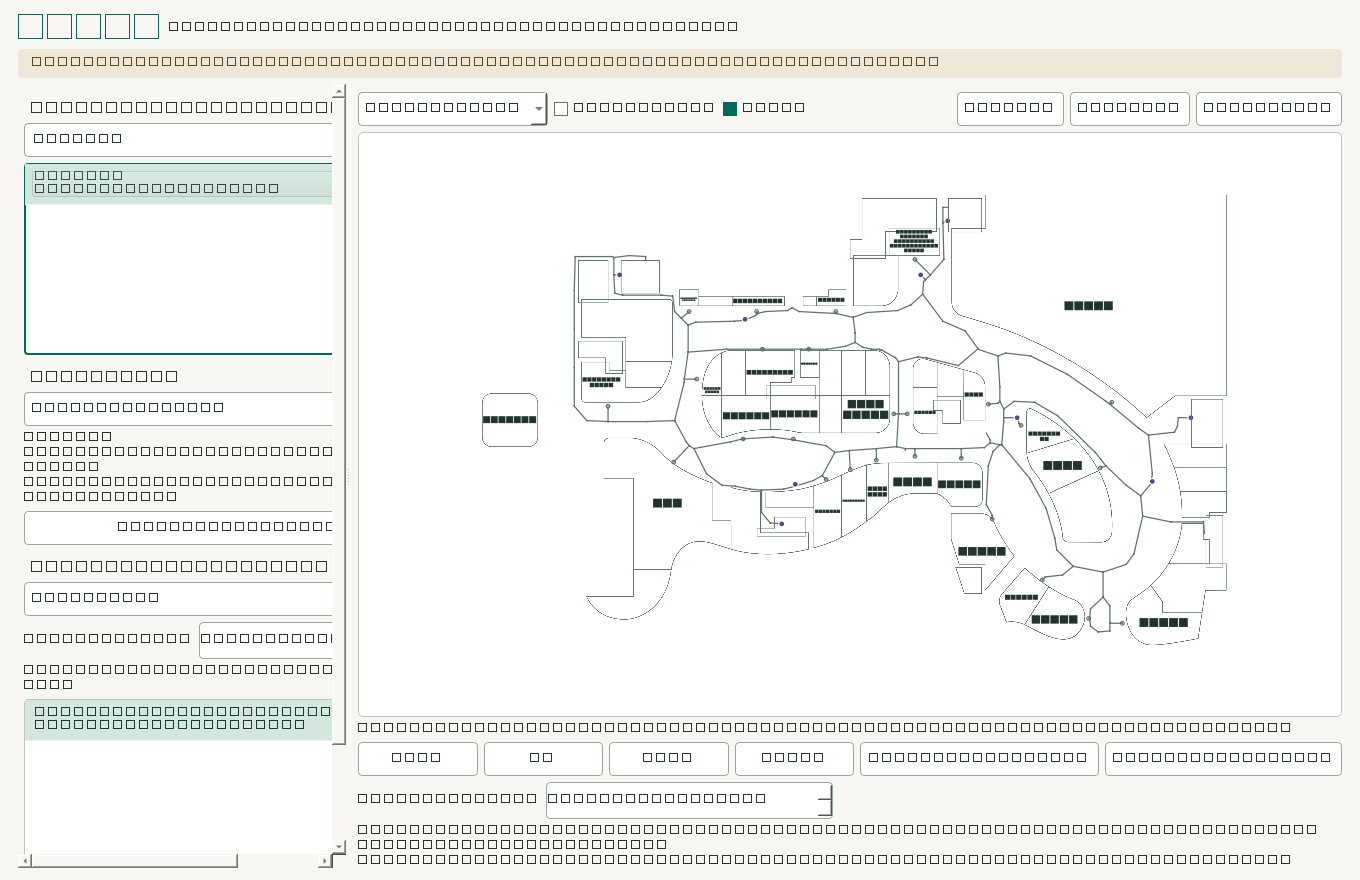
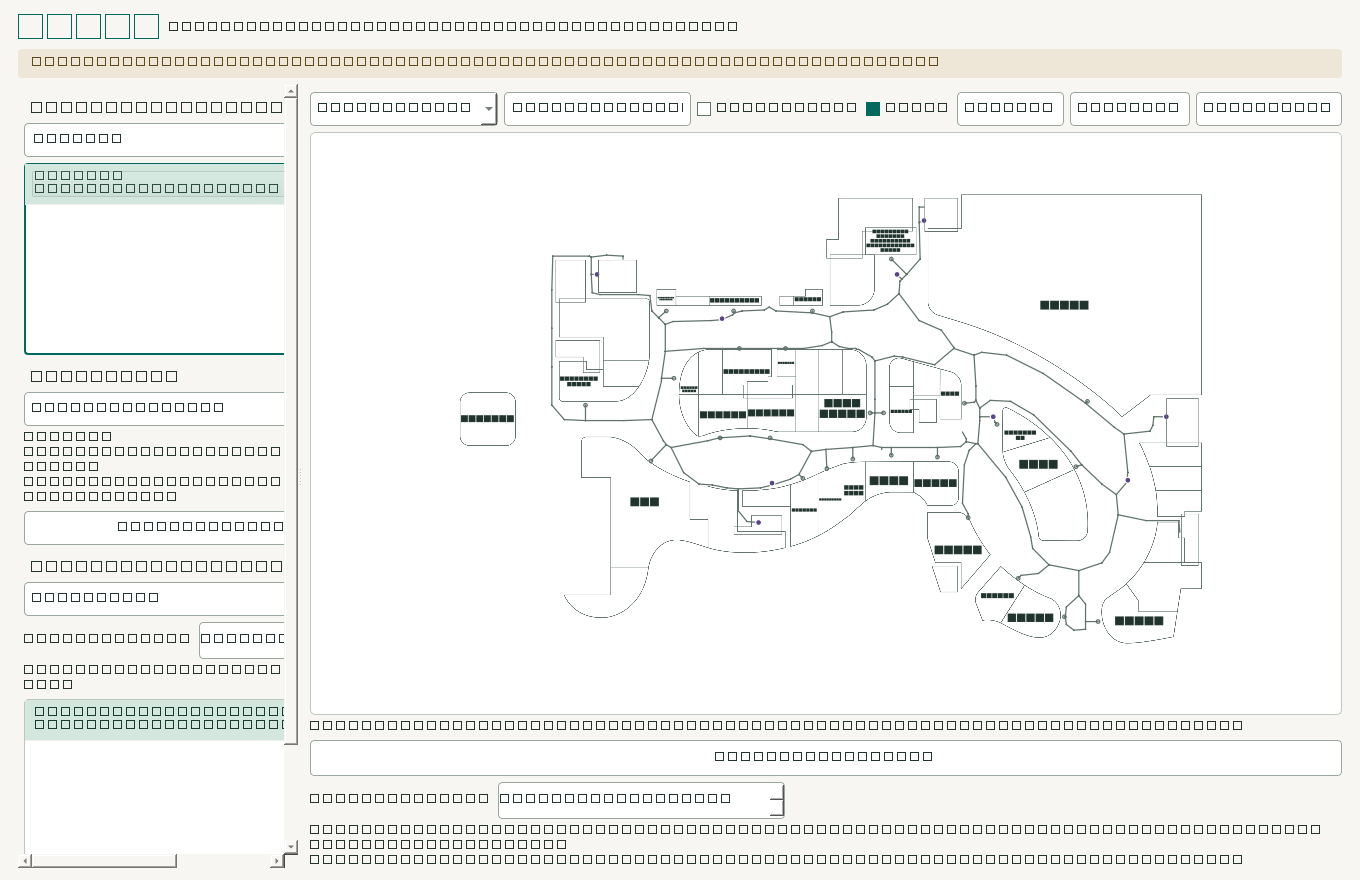
Rearranged the UI, default movement speed into 12

diff --git a/main.py b/main.py
@@ -282,7 +282,6 @@ class Window(QMainWindow):
         self.destination = None
         self.total_distance = None
         self.viewed_floor = 'ground'
-        self.held_direction = (0,0)
         self.last_time = time.monotonic()
         self.last_results = None
         self.last_detail_refresh = 0.0
@@ -364,6 +363,9 @@ class Window(QMainWindow):
         self.floor.addItems(list(FLOORS.values()))
         self.floor.setAccessibleName('Viewed floor; does not move the player')
         toolbar.addWidget(self.floor)
+        follow = QPushButton('Show player floor')
+        follow.clicked.connect(self.show_player)
+        toolbar.addWidget(follow)
         self.map_picture = QCheckBox('Map picture')
         self.map_picture.setChecked(True)
         toolbar.addWidget(self.map_picture)
@@ -381,27 +383,16 @@ class Window(QMainWindow):
         map_layout.addWidget(self.view, 1)
         self.position_label = self.label('')
         map_layout.addWidget(self.position_label)
-        movement = QHBoxLayout()
-        for title, direction in [('Left',(-1,0)),('Up',(0,-1)),('Down',(0,1)),('Right',(1,0))]:
-            button = QPushButton(title)
-            button.setAccessibleName('Move ' + title.lower() + ' along corridor')
-            button.pressed.connect(lambda d=direction:self.set_direction(d))
-            button.released.connect(lambda:self.set_direction((0,0)))
-            movement.addWidget(button)
         self.cross = QPushButton('Use floor connection (E)')
         self.cross.clicked.connect(self.transition)
-        movement.addWidget(self.cross)
-        follow = QPushButton('Show player floor')
-        follow.clicked.connect(self.show_player)
-        movement.addWidget(follow)
-        map_layout.addLayout(movement)
+        map_layout.addWidget(self.cross)
         speed_row = QHBoxLayout()
         speed_label = QLabel('Movement speed')
         self.speed = QDoubleSpinBox()
         self.speed.setRange(.5, 12)
         self.speed.setSingleStep(.5)
         self.speed.setDecimals(1)
-        self.speed.setValue(3)
+        self.speed.setValue(12)
         self.speed.setSuffix(' m/s (approx.)')
         self.speed.setAccessibleName('Simulated movement speed in approximate meters per second')
         speed_label.setBuddy(self.speed)
@@ -482,13 +473,9 @@ class Window(QMainWindow):
         self.floor.setCurrentIndex(list(FLOORS).index(self.player.floor))
         self.view.reset_view()
 
-    def set_direction(self, direction):
-        self.held_direction = direction
-
     def transition(self):
         if self.player.transition():
             self.view.keys.clear()
-            self.held_direction = (0,0)
             self.show_player()
             self.refresh()
 
@@ -498,9 +485,8 @@ class Window(QMainWindow):
         self.last_time = now
         if not self.isActiveWindow():
             self.view.keys.clear()
-            self.held_direction = (0,0)
             return
-        dx,dy = self.held_direction
+        dx,dy = 0,0
         for key in self.view.keys:
             vx,vy = self.directions[key]
             dx,dy = dx+vx,dy+vy

diff --git a/verify_ui.py b/verify_ui.py
@@ -40,6 +40,7 @@ def choose(query):
     app.processEvents()
 
 
+check(w.speed.value() == 12, 'Default movement speed is 12 m/s')
 choose('Fore')
 artwork=w.view.svg.pixmap().toImage()
 check(artwork.pixelColor(300,300).name()=='#c1c1c1','GF artwork retains exterior coordinates')
@@ -79,20 +80,16 @@ QTest.qWait(300)
 QTest.keyRelease(w.view,Qt.Key.Key_W)
 w.timer.stop()
 check(w.player.xy!=before,'Live timer moves player while keyboard key is held')
-for speed, keyboard in ((.5, True), (12, False)):
+for speed in (.5, 12):
     w.speed.setValue(speed)
     w.view.setFocus()
-    if keyboard:
-        QTest.keyPress(w.view, Qt.Key.Key_W)
-    else:
-        w.set_direction((0,-1))
+    QTest.keyPress(w.view, Qt.Key.Key_W)
     with patch.object(w.player, 'move', wraps=w.player.move) as move:
         w.last_time=__import__('time').monotonic()-.05
         w.tick()
-        check(move.called and move.call_args.args[3] == speed, f'Speed {speed} reaches movement via keyboard={keyboard}')
+        check(move.called and move.call_args.args[3] == speed, f'Speed {speed} reaches keyboard movement')
     QTest.keyRelease(w.view, Qt.Key.Key_W)
-    w.set_direction((0,0))
-w.speed.setValue(3)
+w.speed.setValue(12)
 w.transport.setCurrentIndex(2)
 choose('Lacoste')
 check('escalator' in w.route_label.text(),'Cross-floor routing instruction')
@@ -153,11 +150,8 @@ QTest.mouseRelease(w.view.viewport(),Qt.MouseButton.LeftButton,pos=pos+QPoint(60
 after_scroll=(w.view.horizontalScrollBar().value(),w.view.verticalScrollBar().value())
 check(before_scroll!=after_scroll,'Mouse drag pan')
 w.view.reset_view()
-for name in ['Left','Up','Down','Right']:
-    QTest.mousePress(buttons[name],Qt.MouseButton.LeftButton)
-    check(w.held_direction!=(0,0),name+' on-screen movement press')
-    QTest.mouseRelease(buttons[name],Qt.MouseButton.LeftButton)
-    check(w.held_direction==(0,0),name+' on-screen movement release')
+check(not any(name in buttons for name in ['Left','Up','Down','Right']), 'Directional buttons removed')
+check(buttons['Show player floor'].mapTo(w, QPoint(0,0)).y() < w.view.mapTo(w, QPoint(0,0)).y(), 'Show player floor is above map')
 w.radius.setValue(35)
 check('35 m' in w.near_status.text(),'Custom radius applied')
 w.network.setChecked(False)

diff --git a/README.md b/README.md
@@ -17,12 +17,12 @@ The tested environment is Windows, Python 3.14, PySide6 6.12.0. The dependency i
 
 ## Controls
 
-- Movement speed below the map controls adjusts keyboard and on-screen movement from 0.5 to 12 approximate m/s (default 3). Changes apply immediately and reset to the default when the app restarts. Movement remains constrained to the same corridor graph.
+- Movement speed below the map controls adjusts keyboard movement from 0.5 to 12 approximate m/s (default 12). Changes apply immediately and reset to the default when the app restarts. Movement remains constrained to the same corridor graph.
 
 - Search by tenant name or unit. Click a result or press Enter to select it.
-- Click the map and use WASD or arrow keys. Hold an on-screen movement button as an alternative. Movement selects the connected corridor most aligned with your input; it cannot move freely through a store.
+- Click the map and use WASD or arrow keys. Movement selects the connected corridor most aligned with your input; it cannot move freely through a store.
 - Drag the map to pan. Use the mouse wheel or zoom buttons to zoom; Reset view fits the floor.
-- The floor selector changes only the viewed map. Show player floor returns to your actual simulated floor.
+- The floor selector changes only the viewed map. Show player floor in the top toolbar returns to your actual simulated floor.
 - Within approximately 3 m of a purple connector along the connected walkway, press E or Use floor connection. The nearest eligible connector is selected, even across small corridor junctions. Straight-line closeness across a wall is not sufficient. A held E key cannot bounce back automatically, and movement input clears after the floor change.
 - Choose Any floor connection, Lifts only, or Escalators only under Your route. This restricts the connections used by Dijkstra. Hover the action button to see the nearby connection's name. Search for the escalator name (for example, Frank & Co - Giordano) to route to the escalator approach rather than the shop entrance.
 - Clear destination removes the route. Map picture toggles the supplied floor artwork. Graph independently toggles shop/service outlines, shared rails, mapped entry points, routes, connectors, player and search buffer. Both can be on or off; choices persist when switching floors. These are display controls: movement and GIS calculations continue.
